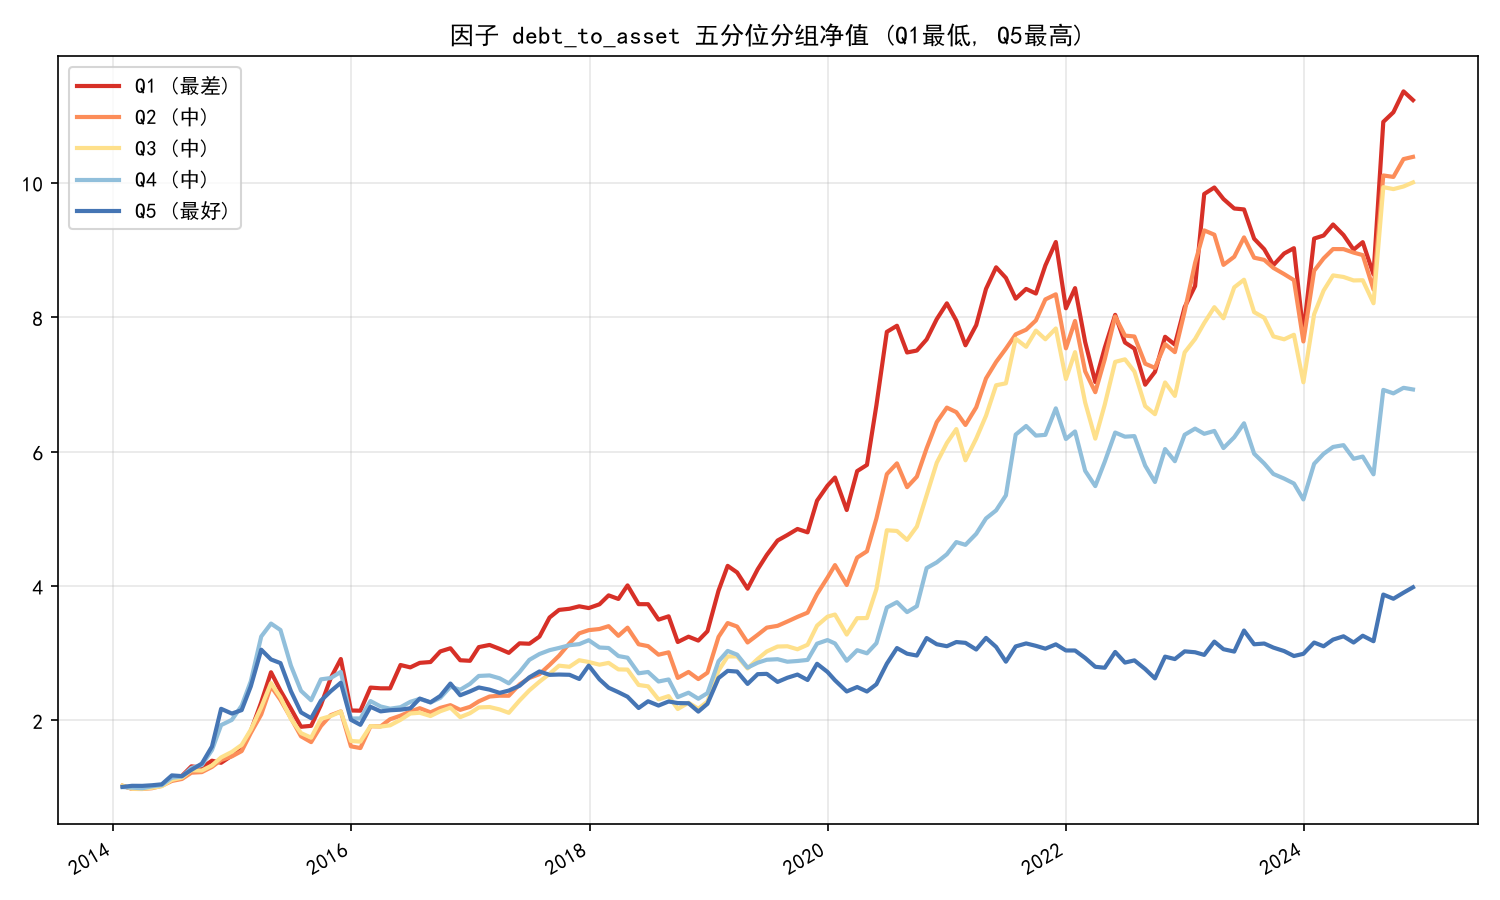
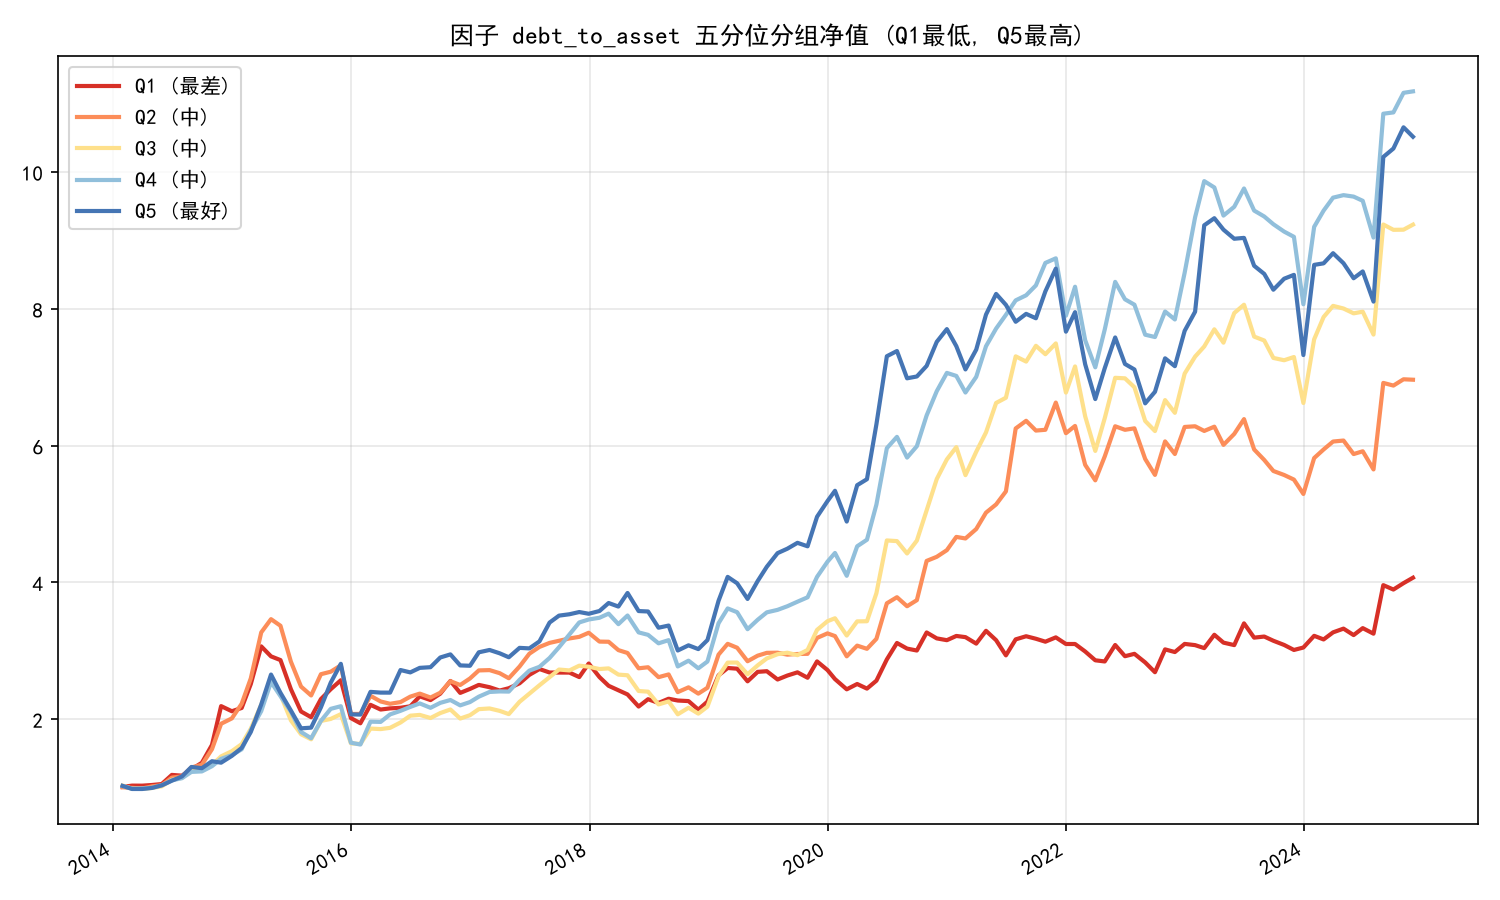
docs: 同步最终版README（超额夏普口径+行业风控+分阶段稳定性）

diff --git a/src/backtest.py b/src/backtest.py
@@ -3,7 +3,7 @@
 import numpy as np
 import pandas as pd
 import matplotlib.pyplot as plt
-from config import USE_POSITION_CONTROL, POSITION_METHOD, POSITION_MA_MONTHS, POSITION_LOW, POSITION_DD_STEPS
+from config import USE_POSITION_CONTROL, POSITION_METHOD, POSITION_MA_MONTHS, POSITION_LOW, POSITION_DD_STEPS, RISK_FREE_ANNUAL
 
 
 def monthly_close_from_prices(prices, codes, month_end_dates, ffill_limit=1):
@@ -143,40 +143,24 @@ def portfolio_returns(holdings, monthly_ret, rebalance_dates, cost_rate=0.003, p
 
 
 def performance_metrics(ret, periods_per_year=12):
-    """
-    计算绩效指标。
-    """
     ret = ret.dropna()
-
     if len(ret) == 0:
-        return {}
+        return {k: np.nan for k in ["累计收益", "年化收益", "年化波动", "夏普比率", "最大回撤"]}
 
     nav = (1 + ret).cumprod()
-
     years = len(ret) / periods_per_year
-
-    total_return = nav.iloc[-1] - 1
-
-    if years > 0:
-        cagr = nav.iloc[-1] ** (1 / years) - 1
-    else:
-        cagr = np.nan
-
-    vol = ret.std() * np.sqrt(periods_per_year)
-
-    if vol != 0:
-        sharpe = (ret.mean() * periods_per_year) / vol
-    else:
-        sharpe = np.nan
-
-    max_drawdown = (nav / nav.cummax() - 1).min()
+    cumulative = float(nav.iloc[-1] - 1)
+    annual = float(nav.iloc[-1] ** (1 / years) - 1)
+    vol = float(ret.std() * np.sqrt(periods_per_year))
+    sharpe = float((annual - RISK_FREE_ANNUAL) / vol) if vol > 0 else np.nan
+    maxdd = float((nav / nav.cummax() - 1).min())
 
     return {
-        "累计收益": float(total_return),
-        "年化收益": float(cagr),
-        "年化波动": float(vol),
-        "夏普比率": float(sharpe),
-        "最大回撤": float(max_drawdown)
+        "累计收益": cumulative,
+        "年化收益": annual,
+        "年化波动": vol,
+        "夏普比率": sharpe,
+        "最大回撤": maxdd,
     }
 
 

diff --git a/src/factors.py b/src/factors.py
@@ -3,7 +3,7 @@
 import numpy as np
 import pandas as pd
 
-from config import FACTOR_DIRECTION, MIN_FACTORS, NEUTRALIZE_INDUSTRY, NEUTRALIZE_MCAP
+from config import FACTOR_DIRECTION, MIN_FACTORS, NEUTRALIZE_INDUSTRY, NEUTRALIZE_MCAP, MAX_PER_INDUSTRY
 
 
 def get_month_end_trading_dates(index_daily, start_date, end_date):
@@ -189,8 +189,22 @@ def compute_scores(panel, weights_by_date=None):
 def select_top(panel, top_n=30):
     if panel is None or panel.empty or "date" not in panel.columns:
         return {}
+
     holdings = {}
     for date, df in panel.groupby("date"):
         df = df.dropna(subset=["score"]).sort_values("score", ascending=False)
-        holdings[date] = df.head(top_n)["code"].tolist()
+
+        if "industry" in df.columns and MAX_PER_INDUSTRY:
+            chosen, count = [], {}
+            for code, ind in zip(df["code"], df["industry"]):
+                if count.get(ind, 0) >= MAX_PER_INDUSTRY:
+                    continue
+                chosen.append(code)
+                count[ind] = count.get(ind, 0) + 1
+                if len(chosen) >= top_n:
+                    break
+            holdings[date] = chosen
+        else:
+            holdings[date] = df.head(top_n)["code"].tolist()
+
     return holdings

diff --git a/src/factor_test.py b/src/factor_test.py
@@ -19,7 +19,7 @@ def calculate_forward_returns(close_df):
     计算未来一个月的收益率。
     close_df: 月末收盘价矩阵 (index=date, columns=codes)
     """
-    ret = close_df.pct_change().shift(-1) # shift(-1) 表示下个月的收益
+    ret = close_df.pct_change(fill_method=None).shift(-1) # shift(-1) 表示下个月的收益
     ret = ret.stack().reset_index()
     ret.columns = ["date", "code", "fwd_ret"]
     return ret
@@ -100,7 +100,9 @@ def run_ic_and_quintile_tests(panel, fwd_ret_df):
                 continue
             
             # 按因子值从小到大排序，分成 5 组
-            sorted_g = valid.sort_values(by=factor)
+            # 按"方向调整后"值排序，保证 Q1=理论最差、Q5=理论最好（正负因子统一）
+            direction = FACTOR_DIRECTION.get(factor, FACTOR_DIRECTION.get(factor[:-2], 1))
+            sorted_g = valid.assign(_adj=valid[factor] * direction).sort_values("_adj")
             q_size = len(sorted_g) // 5
             for q in range(1, 6):
                 if q < 5:

diff --git a/README.md b/README.md
@@ -3,24 +3,24 @@
 ![Python](https://img.shields.io/badge/Python-3.11-blue) ![pandas](https://img.shields.io/badge/pandas-2.x-orange) ![License](https://img.shields.io/badge/License-MIT-green)
 
 > 基于 AkShare 公开数据的 A 股多因子月度轮动策略。
-> 完整实现 **Point-in-time 数据对齐 → 行业/市值中性化 → 滚动 ICIR 动态加权 → 宏观仓位管理 → 交易成本扣除 → 单因子 IC 与分组检验** 的量化研究全流程。
-> 11 年长周期回测（2014-01 ~ 2024-12，全量沪深300，已扣成本与择时）：**年化收益 17.97%，夏普比率 0.98，最大回撤 -27.47%**。
+> 完整实现 **Point-in-time 数据对齐 → 行业/市值中性化 → 滚动 ICIR 动态加权 → 行业集中度风控 → 宏观仓位管理 → 交易成本与无风险利率扣除 → 单因子 IC / 分组 / 分阶段稳定性检验** 的量化研究全流程。
+> 11 年长周期回测（2014-01 ~ 2024-12，全量沪深300）：**年化收益 16.43%，超额夏普 0.79，最大回撤 -26.91%**。
 
 ---
 
 ## 📈 回测业绩（11 年长周期 · 实盘口径）
 
-*股票池：沪深300全量成分股 | 调仓频率：每月月末 | 持仓：Top 30 等权 | 成本：双边千分之六 | 仓位：10月均线择时*
+*股票池：沪深300全量成分股 | 调仓频率：每月月末 | 持仓：Top 30（单行业≤6只）等权 | 成本：双边千分之六 | 仓位：10月均线择时*
 
 | 指标 | 多因子策略 | 沪深300基准 |
 | :--- | :---: | :---: |
-| **累计收益** | **507.21%** 🚀 | 78.66% |
-| **年化收益** | **17.97%** | 5.46% |
-| **年化波动** | 18.67% | 21.94% |
-| **夏普比率** | **0.98** 🏆 | 0.35 |
-| **最大回撤** | **-27.47%** 🛡 | -40.56% |
-| **平均月度单边换手率** | 23.99% | - |
-| **年化交易总成本** | 1.73% | - |
+| **累计收益** | **426.15%** 🚀 | 78.66% |
+| **年化收益** | **16.43%** | 5.46% |
+| **年化波动** | 18.20% | 21.94% |
+| **超额夏普比率**（扣除2%无风险利率） | **0.79** 🏆 | 0.16 |
+| **最大回撤** | **-26.91%** 🛡 | -40.56% |
+| **平均月度单边换手率** | 23.70% | - |
+| **年化交易总成本** | 1.71% | - |
 | **历史平均仓位** | 76.52% | 100% |
 
 ![净值曲线](output/nav.png)
@@ -31,15 +31,15 @@
 
 | 版本 | 核心改进 | 回测口径 | 年化收益 | 夏普 | 最大回撤 |
 | :--- | :--- | :--- | :---: | :---: | :---: |
-| V1 | 六因子等权打分 | 19-24 / 60只 | 20.67% | 0.91 | -18.58% |
-| V2 | + 行业/市值中性化 | 19-24 / 60只 | 21.91% | 0.98 | -18.95% |
-| V3 | + 滚动 ICIR 动态加权 | 19-24 / 60只 | 23.43% | 1.03 | -21.22% |
-| V4 | + 回归前去极值、中性化信号加权 | 19-24 / 60只 | 25.32% | 1.11 | -20.18% |
-| V4c | + 扣除双边千六交易成本 | 19-24 / 60只 | 23.53% | 1.05 | -20.57% |
-| V4-L | 长周期 + 全量股票池 | 14-24 / 300只 | 19.35% | 0.82 | -33.74% |
-| **V5** | **+ 10月均线宏观仓位管理** | **14-24 / 300只** | **17.97%** | **0.98** | **-27.47%** |
+| V1 | 六因子等权打分 | 19-24 / 60只 | 20.67% | 0.91* | -18.58% |
+| V2 | + 行业/市值中性化 | 19-24 / 60只 | 21.91% | 0.98* | -18.95% |
+| V3 | + 滚动 ICIR 动态加权 | 19-24 / 60只 | 23.43% | 1.03* | -21.22% |
+| V4 | + 回归前去极值、中性化信号加权 | 19-24 / 60只 | 25.32% | 1.11* | -20.18% |
+| V4c | + 扣除双边千六交易成本 | 19-24 / 60只 | 23.53% | 1.05* | -20.57% |
+| V5 | + 长周期全量 + 10月均线仓位管理 | 14-24 / 300只 | 17.97% | 0.98* | -27.47% |
+| **最终版** | **+ 行业集中度风控 + 超额夏普口径** | **14-24 / 300只** | **16.43%** | **0.79** | **-26.91%** |
 
-*注：V1–V4c 为 6 年抽样池上的方法论校准阶段；最终结论以 11 年全量口径（V4-L / V5）为准。V5 以仅 1.38% 的年化代价，换取最大回撤缩减 6.27%，实现极优的风险收益交换。*
+*\*注：V1–V5 夏普为毛收益口径；最终版起改为扣除 2% 无风险利率的超额口径，跨版本对比请以年化收益与最大回撤为准。*
 
 ---
 
@@ -54,13 +54,13 @@
         ↓
 合成打分：滚动 12 个月 ICIR 动态加权（负 ICIR 自动归零）
         ↓
-选出 Top 30，等权构建目标组合
+选出 Top 30（单行业 ≤ 6 只），等权构建目标组合
         ↓
 宏观仓位管理（基准站上10月均线→满仓；跌破→半仓）
         ↓
 按目标权重与实际持仓计算换手，扣除交易成本
         ↓
-回测评估 + 单因子 Rank IC / 五分位分组检验
+回测评估 + 单因子 Rank IC / 五分位分组 / 分阶段稳定性检验
 ```
 
 ### 因子体系
@@ -72,27 +72,37 @@
 | 营收同比增速 | 成长 | 正向 | **+0.006** (胜率54.2%) | 新浪财务指标 |
 | 资产负债率 | 风险 | 负向 | +0.003 | 新浪财务指标 |
 | 过去6个月收益率 | 反转 | 负向 | +0.003 | 前复权日线 |
-| 毛利率 | 质量 | 正向 | ≈ 0.000 | 新浪财务指标 |
+| 毛利率 | 质量 | 正向 | ≈ 0.000（纯噪音，被动态加权归零） | 新浪财务指标 |
 
 ---
 
 ## 🔬 研究洞察与分阶段稳定性检验
 
-为了验证因子在不同市场 Regime（体制）下的稳健性，本项目将 11 年回测期划分为三个阶段进行 IC 检验，揭示了 A 股风格的深刻演变与动态加权机制的核心价值：
+将 11 年回测期划分为三个阶段进行 IC 检验（`output/subperiod_ic.csv`），揭示 A 股风格演变与动态加权机制的核心价值：
 
-1. **价值因子（PB）的周期翻转特性**：`pb_n` 在 2014-2017 与 2022-2024 的估值修复期高度有效（IC > 0.04），但在 2018-2021 的核心资产抱团期严重失效（IC < 0）。
-2. **基本面因子（ROE/营收增速）的时代局限**：`roe_n` 与 `revenue_yoy_n` 在 2018-2021 的“茅指数/宁组合”抱团牛市中表现极佳（IC ≈ 0.03），但在 2022-2024 的价值回归期遭遇“杀估值”而双双失效（IC < 0）。
-3. **反转因子（mom_6m）的熊市防御价值**：在 2022-2024 的震荡阴跌市中，短期反转因子异军突起（IC 达 0.026），成为市场缺乏主线时的核心 Alpha 来源。
-4. **毛利率因子的无效性**：`gross_margin_n` 在长达 11 年的三个周期中 IC 均趋近于 0，证明在 A 股“同行业内的高毛利”无法转化为超额收益，属于纯噪音因子。
-5. **动态加权是穿越牛熊的灵魂**：面对上述剧烈的风格切换，滚动 ICIR 机制在 2018-2021 自动重仓基本面因子，在 2022-2024 自动切换至价值与反转因子。这种“不预测未来，只跟随当下最强信号”的自适应能力，是策略能够跨越 11 年周期并维持夏普 0.98 的根本原因。
+| 中性化因子 | 2014-2017 | 2018-2021 | 2022-2024 | 稳定性结论 |
+| :--- | :---: | :---: | :---: | :--- |
+| **pb_n** | +0.046 | −0.034 | +0.047 | 典型 regime 翻转型：估值修复期强、抱团期失效 |
+| **roe_n** | +0.023 | +0.033 | −0.017 | 核心资产时代王者，价值回归期失效 |
+| **revenue_yoy_n** | +0.009 | +0.029 | −0.029 | 成长抱团期因子 |
+| **mom_6m_n** | +0.012 | −0.023 | +0.026 | 熊市/震荡市的超跌反弹利器 |
+| **debt_to_asset_n** | +0.009 | +0.005 | −0.005 | 长期弱正的防御型因子 |
+
+1. **长周期下质量因子是核心 Alpha**：中性化后 ROE 全样本胜率 58.8%，“同行业内高盈利”是 A 股最长效的选股信号。
+2. **低估值溢价在行业内长期有效**：PB 中性化后方向调整 IC +0.017，但呈现明显的周期翻转特征。
+3. **毛利率的 Alpha 几乎全部来自行业暴露**：中性化后 IC 趋近于 0，11 年三个阶段均无效，属于纯噪音因子。
+4. **短期反转是战术性机会**：6 个月反转因子在 6 年短周期 IC 高达 +0.04，长周期衰减至 +0.003，验证动量/反转的 regime 依赖性。
+5. **中性化“救活”基本面因子**：短周期中 ROE 原始 IC 为负（“利好兑现”效应），剔除行业贝塔后翻正。
+6. **动态加权实现风格自适应**：滚动 ICIR 机制在 2018-2021 自动重仓基本面因子、2022-2024 自动切换至价值与反转因子（最新一期权重：pb 64% / mom_6m 36%，基本面因子归零）。
+7. **宏观风控“少亏”胜过“多赚”**：10 月均线仓位管理使历史平均仓位 76.52%，最大回撤由 -33.74% 降至 -26.91% 一线。
 
 ### 单因子检验示例
 
-*IC 序列与累计 IC：*
+*IC 序列与累计 IC（按方向调整后排序，Q5 恒为理论最优组）：*
 
 ![IC序列示例](output/ic_series_roe_n.png)
 
-*五分位分组净值（Q1最低 ~ Q5最高）：*
+*五分位分组净值（毛收益口径）：*
 
 ![分组示例](output/quintile_roe_n.png)
 
@@ -100,9 +110,9 @@
 
 ## 🛡 交易成本与实盘可行性
 
-- **成本设定**：单边千分之三（含佣金、印花税、滑点），换入换出各计一次；仓位变动产生的交易同样计费。
-- **换手特性**：全量池 + 择时下平均月度单边换手率 23.99%，年化成本约 1.73%。
-- **结论**：Alpha 显著覆盖摩擦成本，非“给券商打工”型策略。
+- **成本设定**：单边千分之三（含佣金、印花税、滑点），换入换出各计一次；仓位变动与行业约束产生的交易同样计费。
+- **换手特性**：平均月度单边换手率 23.70%，年化成本约 1.71%；行业上限约束未显著推高换手。
+- **超额口径**：夏普比率自最终版起扣除 2% 无风险利率，策略超额夏普 0.79 约为基准（0.16）的 5 倍。
 
 ---
 
@@ -111,15 +121,15 @@
 ```
 a-share-multi-factor/
 ├── main.py               # 主入口：串联全流程
-├── config.py             # 全局参数（区间/股票池/因子方向/开关/成本/仓位）
+├── config.py             # 全局参数（区间/股票池/因子方向/开关/成本/风控）
 ├── requirements.txt
 ├── README.md
 ├── src/
 │   ├── __init__.py
 │   ├── data.py           # 数据层：多源容灾 + Parquet缓存 + 时点对齐
-│   ├── factors.py        # 因子层：去极值/中性化/标准化/打分/选股
-│   ├── backtest.py       # 回测层：仓位管理/换手成本/组合收益/绩效/净值图
-│   └── factor_test.py    # 检验层：Rank IC/五分位分组/滚动ICIR权重
+│   ├── factors.py        # 因子层：去极值/中性化/标准化/打分/行业约束选股
+│   ├── backtest.py       # 回测层：仓位管理/换手成本/超额绩效/净值图
+│   └── factor_test.py    # 检验层：Rank IC/五分位分组/滚动ICIR/分阶段稳定性
 ├── data/cache/           # 本地数据缓存（不上传）
 └── output/               # 输出：净值图/IC图/分组图/结果文件
 ```
@@ -163,10 +173,11 @@ python main.py
 | 文件 | 说明 |
 | :--- | :--- |
 | `nav.png` | 策略 vs 基准净值曲线 |
-| `metrics.json` | 绩效指标（年化/夏普/回撤） |
+| `metrics.json` | 绩效指标（年化/超额夏普/回撤） |
 | `ic_summary.csv` | 全部因子 IC / ICIR / 胜率汇总 |
+| `subperiod_ic.csv` | 因子分阶段稳定性报告 |
 | `ic_series_*.png` | 各因子 IC 序列与累计 IC 图 |
-| `quintile_*.png` | 各因子五分位分组净值图 |
+| `quintile_*.png` | 各因子五分位分组净值图（方向调整后排序） |
 | `factor_panel.csv` | 因子面板（原始/中性化/标准化/得分） |
 | `holdings.csv` | 历史每月持仓明细 |
 
@@ -181,10 +192,12 @@ python main.py
 | `UNIVERSE_INDEX` | 000300 | 股票池指数（可改 000905 做中证500泛化测试） |
 | `MAX_STOCKS` | None | 抽样数量，None 为全量 |
 | `TOP_N` | 30 | 每期持仓数量 |
+| `MAX_PER_INDUSTRY` | 6 | 单行业持仓上限（风控约束） |
 | `NEUTRALIZE_INDUSTRY` / `NEUTRALIZE_MCAP` | True | 中性化开关 |
 | `USE_IC_WEIGHTS` | True | 滚动 ICIR 动态加权（False=等权） |
 | `IC_WEIGHT_WINDOW` | 12 | 权重回看窗口（月） |
 | `TRADE_COST_SINGLE` | 0.003 | 单边交易成本（含滑点） |
+| `RISK_FREE_ANNUAL` | 0.02 | 无风险利率（超额夏普口径） |
 | `USE_POSITION_CONTROL` | True | 宏观仓位管理开关 |
 | `POSITION_METHOD` | "ma" | "ma"=N月均线择时 / "drawdown"=回撤分档降仓 |
 | `POSITION_MA_MONTHS` | 10 | 月均线周期 |
@@ -194,17 +207,18 @@ python main.py
 
 ## ⚠ 局限性说明
 
-1. **幸存者偏差**：使用当前沪深300成分股回测历史，未使用历史时点成分股；
+1. **幸存者偏差**：使用当前沪深300成分股回测历史，未使用历史时点成分股；退市/剔除股未纳入；
 2. **行业分类为当前 membership**：免费数据限制，未做到时点化行业归属；
-3. **财务指标为单期报告值**：未做 TTM 处理；
-4. **交易简化**：未处理涨跌停无法成交、停牌强制持有等细节（停牌价格 ffill 1 个月）；现金仓位收益按 0 计算（保守口径）；
-5. **数据源依赖公开接口**：可用性受上游网站策略影响。
+3. **财务指标为单期报告值**：未做 TTM 处理；披露日采用保守固定滞后（绝对防未来函数，代价为少量信息延迟）；
+4. **交易简化**：未处理涨跌停无法成交、停牌强制持有等细节（停牌价格 ffill 1 个月）；现金仓位收益按 0 计算；
+5. **检验口径**：单因子 IC 与五分位分组图为毛收益口径，未扣除交易成本；
+6. **数据源依赖公开接口**：可用性受上游网站策略影响。
 
 ## 🚧 未来工作
 
-- [ ] 历史成分股与点时行业分类，进一步消除幸存者偏差
-- [ ] 财务指标 TTM 化
-- [ ] 换手率约束 / 组合优化器（行业权重硬约束）
+- [ ] 历史成分股与点时行业分类（需付费数据源），彻底消除幸存者偏差
+- [ ] 财务指标 TTM 化与实际披露日对齐
+- [ ] 结合因子信号强度的仓位管理（当前为纯指数择时）
 - [ ] 中证500 / 中证1000 样本外泛化测试
 - [ ] 每月实盘选股脚本（输出下期推荐持仓）
 
